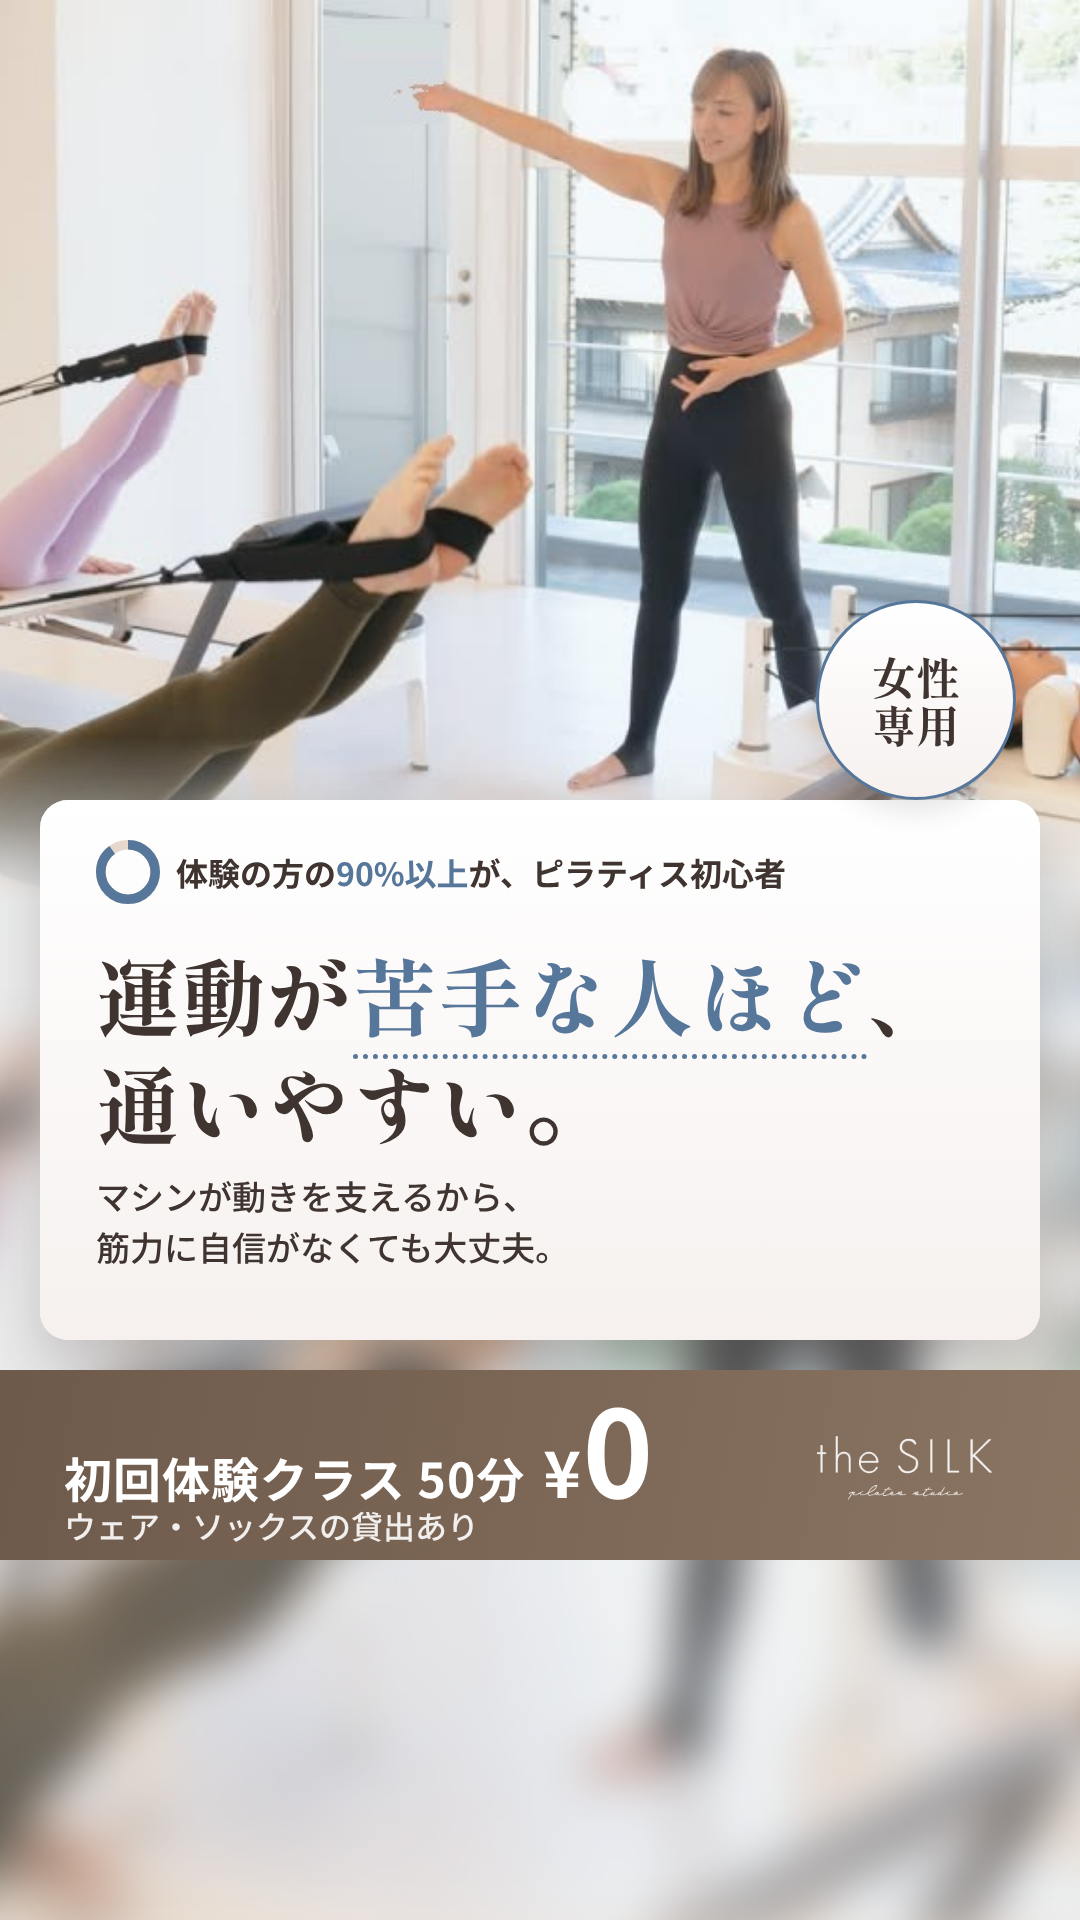
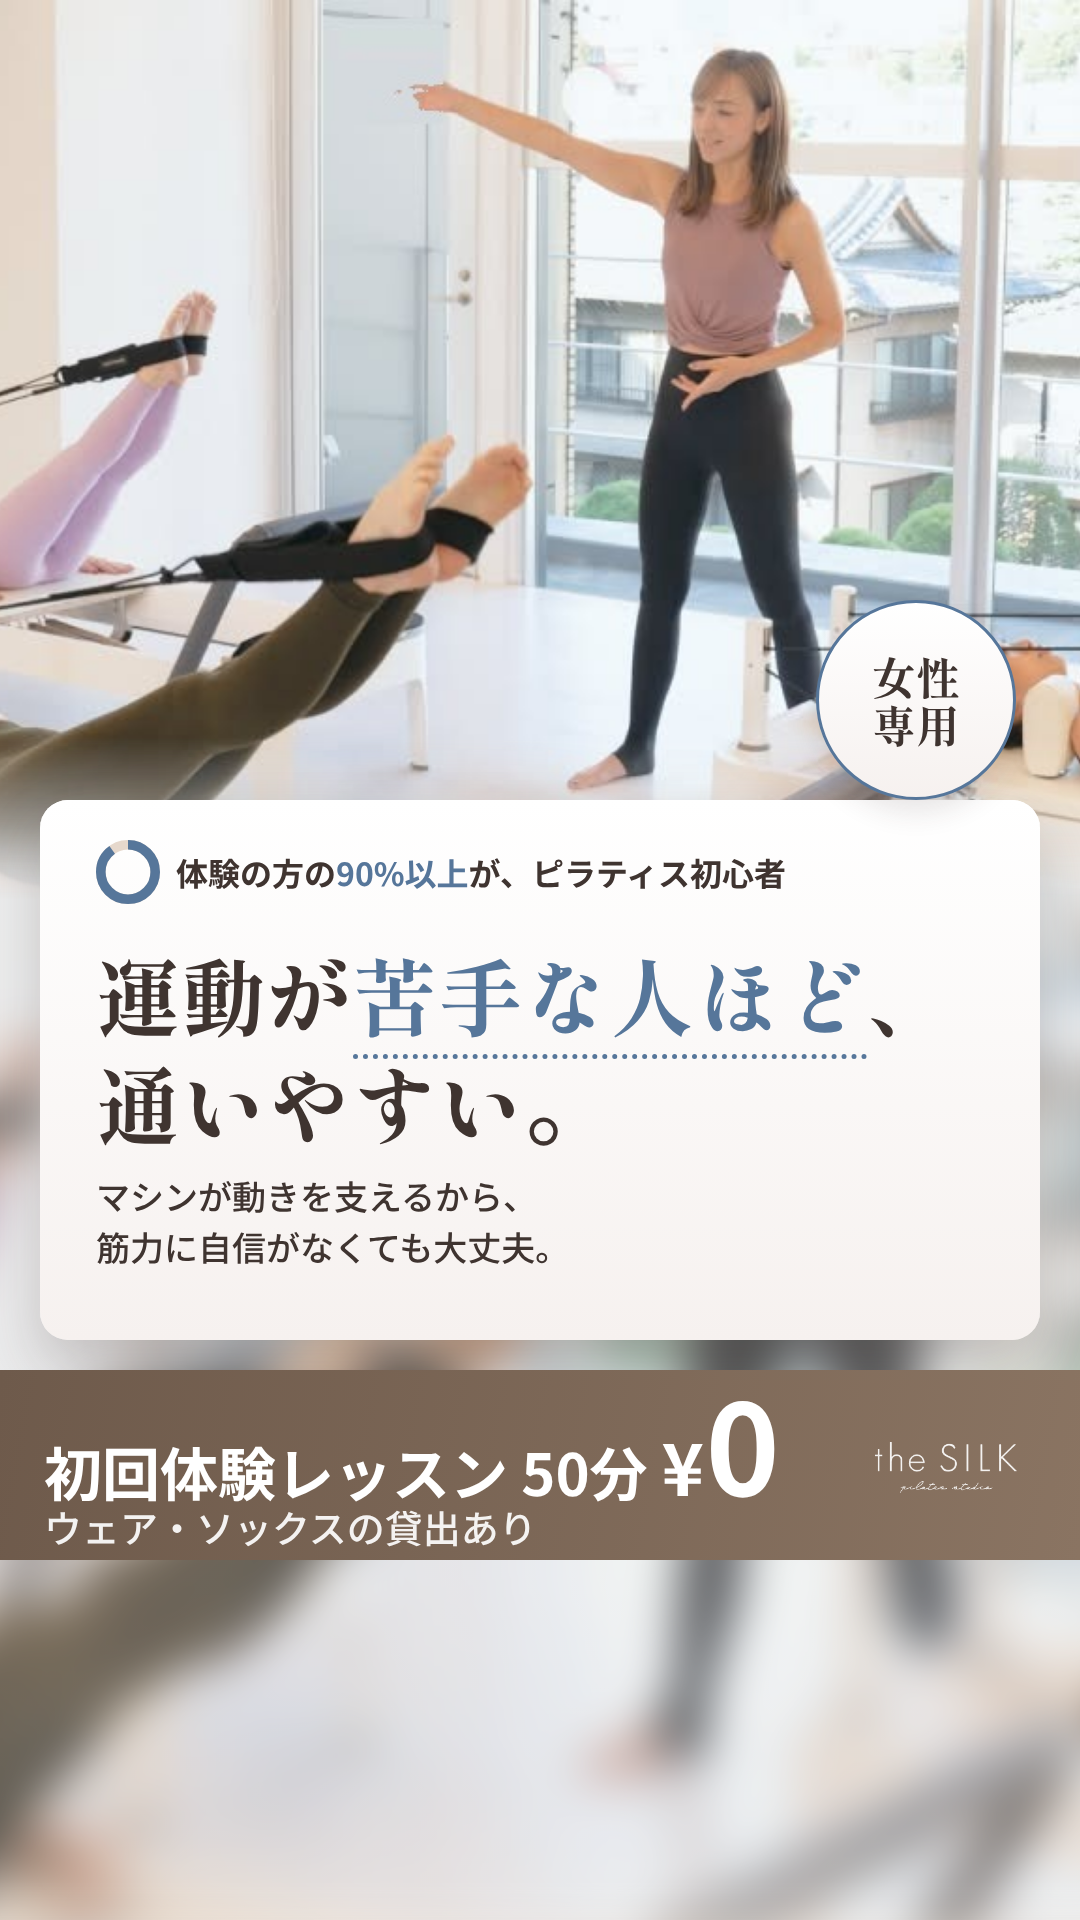
Band: 初回体験レッスン 50分, larger type
Claude-Session: https://claude.ai/code/session_018a2Y1cQo96aQ6MP8FDrBaU

Changed region(s): [[0.0306, 0.7188, 0.7333, 0.8125], [0.7639, 0.75, 0.9167, 0.7812]]

diff --git a/silk_banner_1130/src_チェックリスト版/gen.py b/silk_banner_1130/src_チェックリスト版/gen.py
@@ -28,12 +28,12 @@ def lead90(x,y,t,w=None,fs=32,two=False):
   return f'<div style="position: absolute; left: {x}px; top: {y}px; display: flex; align-items: center; gap: 16px; font-size: {fs}px; font-weight: 700; color: {TXT}; line-height: 1.4">{PIE.format(s=fs*2,soft=t["soft"],ac=t["ac"])}<span>体験の方の<span style="color: {t["ac"]}">90%以上</span>が{br}ピラティス初心者</span></div>'
 def band(top,t,ever):
   l2='ウェア・ソックスの貸出あり' if ever else '入会金・登録手数料も 0円'
-  return (f'<div style="position: absolute; left: 0; right: 0; top: {top}px; height: 190px; box-sizing: border-box; padding: 0 64px; background: linear-gradient(100deg, {t["b1"]} 0%, {t["b2"]} 100%); color: #FFFFFF; display: flex; align-items: center; justify-content: space-between; z-index: 6">'
-   f'<div style="display: flex; flex-direction: column; gap: 0; line-height: 1.2">'
-   f'<div style="display: flex; align-items: baseline; gap: 18px; white-space: nowrap"><span style="font-size: 48px; font-weight: 700; letter-spacing: 0.02em">初回体験クラス 50分</span>'
-   f'<span style="font-weight: 700; font-size: 120px; line-height: 1; letter-spacing: -0.02em"><span style="font-size: 64px; margin-right: 4px">¥</span>0</span></div>'
-   f'<div style="font-size: 32px; font-weight: 500; opacity: 0.9">{l2}</div></div>'
-   f'<img src="@LOGO@" alt="the SILK" style="width: 210px; filter: brightness(0) invert(1)"></div>')
+  return (f'<div style="position: absolute; left: 0; right: 0; top: {top}px; height: 190px; box-sizing: border-box; padding: 0 44px; background: linear-gradient(100deg, {t["b1"]} 0%, {t["b2"]} 100%); color: #FFFFFF; display: flex; align-items: center; justify-content: space-between; z-index: 6">'
+   f'<div style="display: flex; flex-direction: column; gap: 2px; line-height: 1.1">'
+   f'<div style="display: flex; align-items: baseline; gap: 14px; white-space: nowrap"><span style="font-size: 58px; font-weight: 700">初回体験レッスン 50分</span>'
+   f'<span style="font-weight: 700; font-size: 126px; line-height: 0.95; letter-spacing: -0.02em"><span style="font-size: 72px; margin-right: 4px">¥</span>0</span></div>'
+   f'<div style="font-size: 38px; font-weight: 500; opacity: 0.92; white-space: nowrap">{l2}</div></div>'
+   f'<img src="@LOGO@" alt="the SILK" style="width: 170px; flex: none; filter: brightness(0) invert(1)"></div>')
 def h1(x,y,html,fs,lh=1.28,w=None,extra=''):
   return f'<h1 style="position: absolute; left: {x}px; top: {y}px; margin: 0; {M}; font-weight: 800; font-size: {fs}px; line-height: {lh}; letter-spacing: 0.02em; color: {TXT}; white-space: nowrap; {extra}">{html}</h1>'
 def sub(x,y,html,fs=34):
